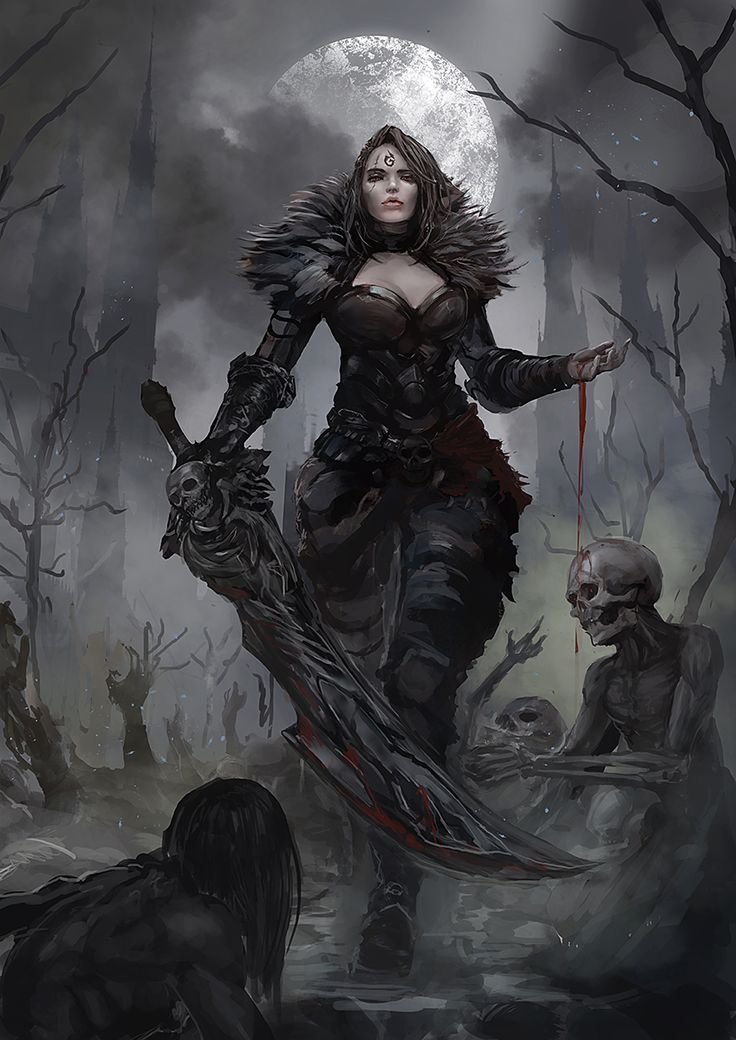
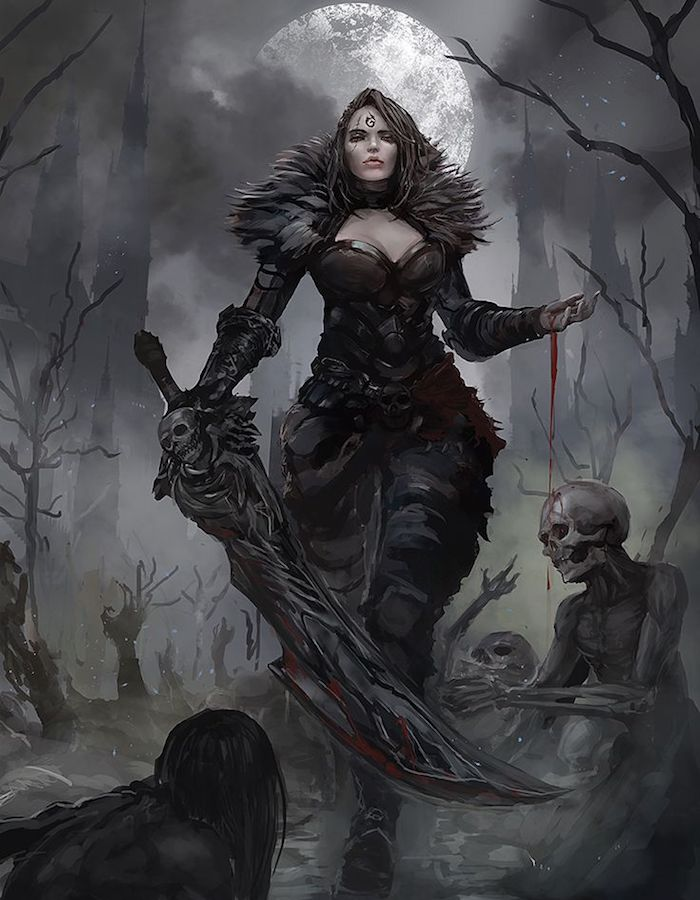
update image files.

diff --git a/css/styles.css b/css/styles.css
@@ -220,36 +220,36 @@ body {
 }
 
 .enemy_card{
-  background: url("../img/enemy/enemy_card.jpg") no-repeat center;
+  background: url("../img/enemy/enemy_card.png") no-repeat center;
   background-size: contain;
 }
 
 .dark_warrior_male1{
-  background: url("../img/enemy/dark_warrior_male1.jpg") no-repeat center;
+  background: url("../img/enemy/dark_warrior_male1.png") no-repeat center;
   background-size: contain;
 }
 
 .dark_wizard_male1{
-  background: url("../img/enemy/dark_wizard_male1.jpg") no-repeat center;
+  background: url("../img/enemy/dark_wizard_male1.png") no-repeat center;
   background-size: contain;
 }
 
 .dark_ranger_male1{
-  background: url("../img/enemy/dark_ranger_male1.jpg") no-repeat center;
+  background: url("../img/enemy/dark_ranger_male1.png") no-repeat center;
   background-size: contain;
 }
 .dark_warrior_fem1{
-  background: url("../img/enemy/dark_warrior_fem1.jpg") no-repeat center;
+  background: url("../img/enemy/dark_warrior_fem1.png") no-repeat center;
   background-size: contain;
 }
 
 .dark_wizard_fem1{
-  background: url("../img/enemy/dark_wizard_fem1.jpg") no-repeat center;
+  background: url("../img/enemy/dark_wizard_fem1.png") no-repeat center;
   background-size: contain;
 }
 
 .dark_ranger_fem1{
-  background: url("../img/enemy/dark_ranger_fem1.jpg") no-repeat center;
+  background: url("../img/enemy/dark_ranger_fem1.png") no-repeat center;
   background-size: contain;
 }
 
